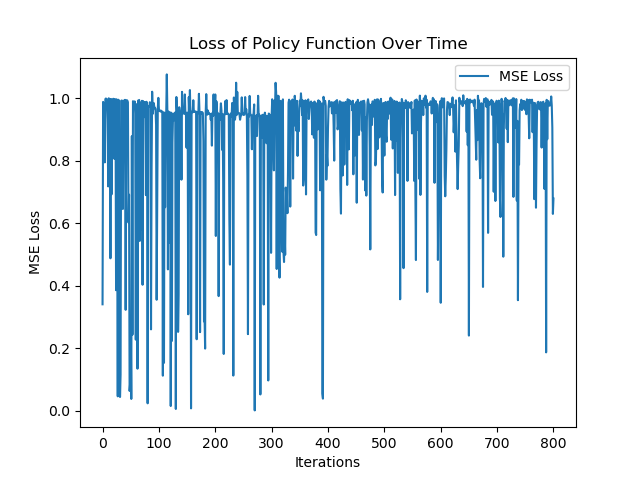
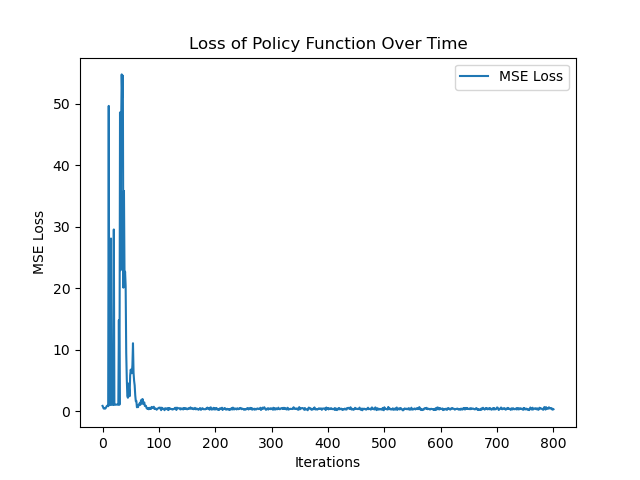
New trained

diff --git a/visualization.py b/visualization.py
@@ -17,18 +17,21 @@ if __name__ == '__main__':
     agent_hidden_layer_size = 24
     agent_hidden_layers = 3
     agent = Agent(discrete_action_size, cont_action_size, state_size, hidden_layers)
-    agent.load("networks/agent_big_it_20.pt")
-    env = ControlEnv(True, 0.02)
-    np.random.seed(1000)
+    agent.load("networks/agent_last_800.pt")
+    env = ControlEnv(False, 0.02)  # 0.02
+    np.random.seed(10)
     ob = env.reset()
     env.render()
-    time.sleep(1)
+    # time.sleep(1)
     for i in range(100):
+        print(f"Iteration={i}")
         action, probs = agent.get_policy_action(torch.tensor(ob, dtype=torch.float32))
         print(action)
-        print(probs)
-        ob, _, _ = env.step(int(action[0]), action[1: 3])
-        env.render()
+        ob, _, done = env.step(int(action[0]), action[1: 3])
+        print(" \n States: ", ob)
+        if done:
+            print("\n Done")
+            break
     """
     # For demo of expert
     setup = [3, 3, 3, 1, 3, 1, 2, 0, 3, 1, 2, 0, 0, 0, 1, 2, 3, 3, 3, 0]

diff --git a/env/control.py b/env/control.py
@@ -92,10 +92,10 @@ class ControlEnv():
             if state[i] < 0.4 or state[i] > 1.1:
                 done = True
         for i in range(0,12,2):#[0,2,8,10]:#range(0,12,2):
-            if state[i] < 1.05  or state[i] > 1.47:
+            if state[i] < 1.05  or state[i] > 1.5:
                 done = True
 
-        normalize_states(state)
+        # normalize_states(state)
 
         return state, 0, done
 
